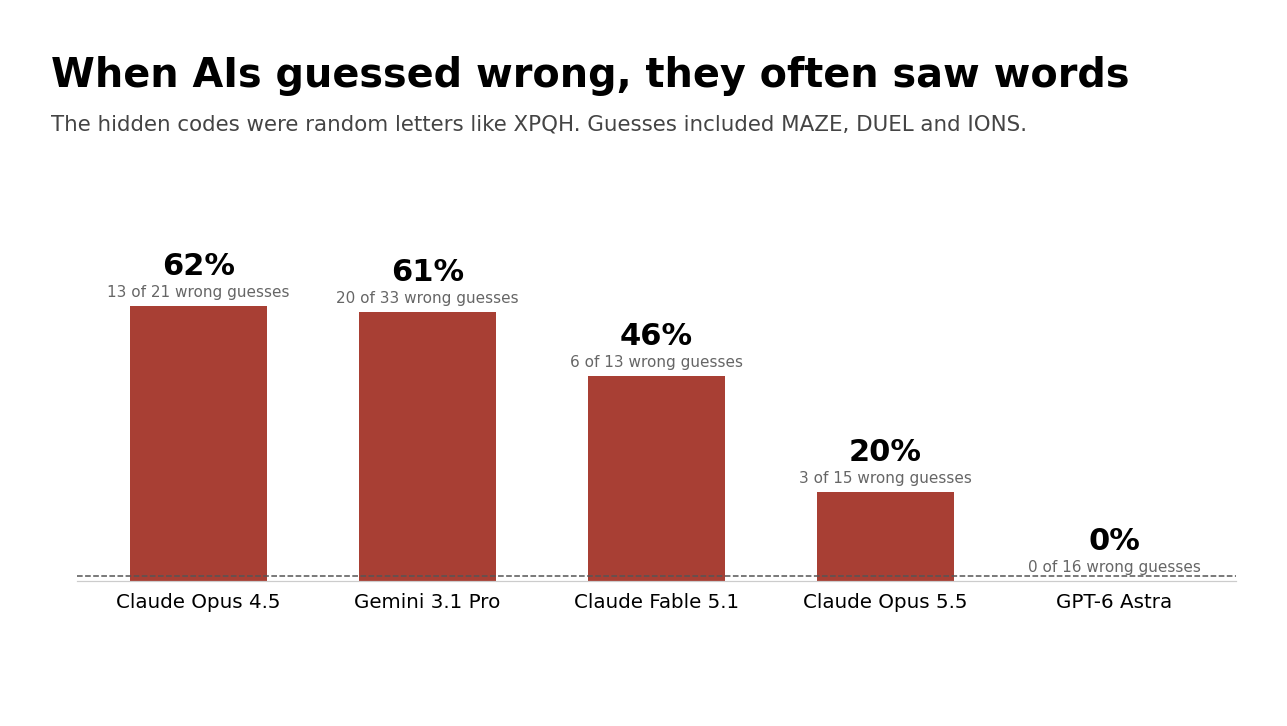
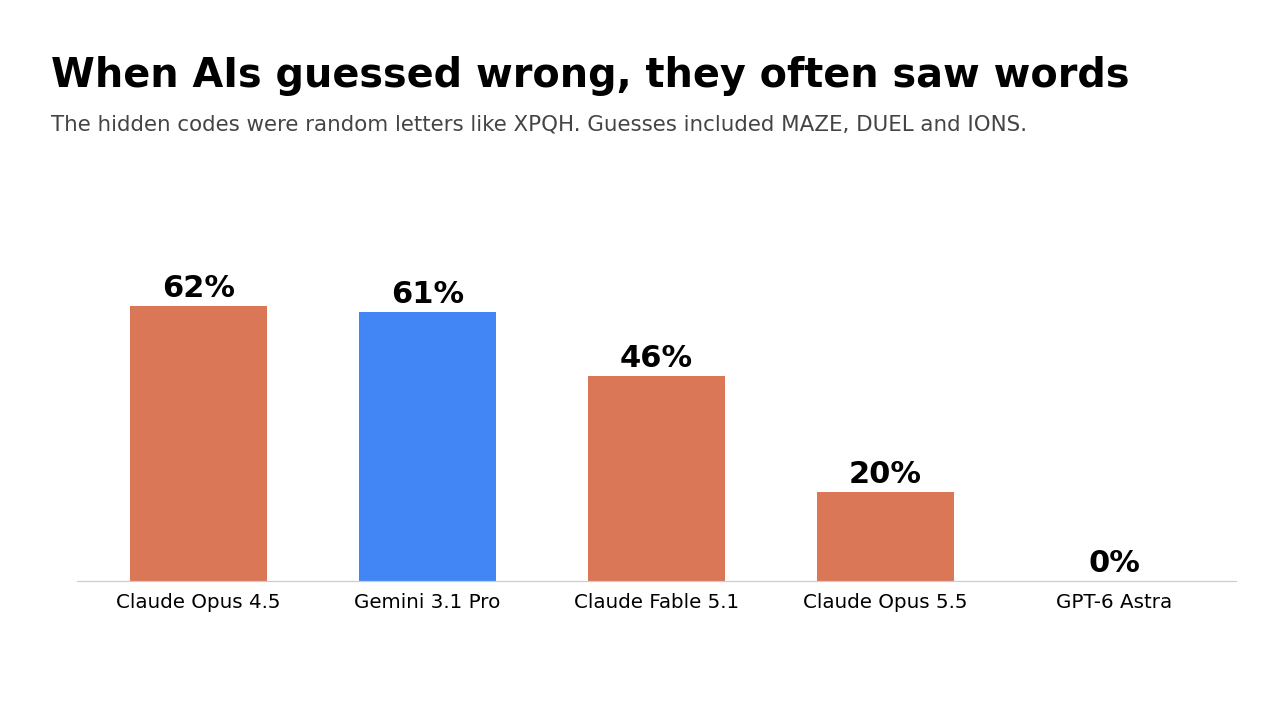
Charts: lab colors (Anthropic orange, OpenAI black, Google blue); word chart without count labels

diff --git a/chart_words.py b/chart_words.py
@@ -17,16 +17,20 @@ for m, c in t.items():
         rows.append((NAMES[m], 100 * word / (word + rand), word, word + rand))
 rows.sort(key=lambda r: -r[1])
 
+LAB_COLOR = {"Claude": "#D97757", "GPT": "#111111", "Gemini": "#4285F4"}  # Anthropic orange, OpenAI black, Google blue
+
+
+def lab_color(name):
+    return next(c for k, c in LAB_COLOR.items() if name.startswith(k))
+
 fig = plt.figure(figsize=(11.7, 6.6), facecolor="white")
 fig.text(0.04, 0.88, "When AIs guessed wrong, they often saw words", fontsize=26, weight="bold")
 fig.text(0.04, 0.82, "The hidden codes were random letters like XPQH. Guesses included MAZE, DUEL and IONS.",
          fontsize=14, color="#444")
 ax = fig.add_axes([0.06, 0.2, 0.9, 0.52])
-bars = ax.bar(range(len(rows)), [r[1] for r in rows], 0.6, color="#a83f34")
+bars = ax.bar(range(len(rows)), [r[1] for r in rows], 0.6, color=[lab_color(r[0]) for r in rows])
 for b, r in zip(bars, rows):
-    ax.text(b.get_x() + b.get_width() / 2, b.get_height() + 7, f"{r[1]:.0f}%", ha="center", fontsize=20, weight="bold")
-    ax.text(b.get_x() + b.get_width() / 2, b.get_height() + 2, f"{r[2]} of {r[3]} wrong guesses", ha="center", fontsize=10, color="#666")
-ax.axhline(1, color="#555", ls="--", lw=1)
+    ax.text(b.get_x() + b.get_width() / 2, b.get_height() + 2, f"{r[1]:.0f}%", ha="center", fontsize=20, weight="bold")
 ax.set_xticks(range(len(rows)), [r[0] for r in rows], fontsize=13)
 ax.tick_params(axis="x", length=0, pad=8)
 ax.set_ylim(0, 85)

diff --git a/thumbnail_models.py b/thumbnail_models.py
@@ -18,10 +18,16 @@ for m in sorted({r["reader"] for r in R}):
     rows.append((NAMES[m.split("/")[-1]], 100 * np.mean(v), len(v)))
 rows.sort(key=lambda r: -r[1])
 
+LAB_COLOR = {"Claude": "#D97757", "GPT": "#111111", "Gemini": "#4285F4"}  # Anthropic orange, OpenAI black, Google blue
+
+
+def lab_color(name):
+    return next(c for k, c in LAB_COLOR.items() if name.startswith(k))
+
 fig = plt.figure(figsize=(11.7, 6.6), facecolor="white")
 fig.text(0.04, 0.88, "How often each AI found a secret code another AI hid", fontsize=26, weight="bold")
 ax = fig.add_axes([0.06, 0.2, 0.9, 0.58])
-bars = ax.bar(range(len(rows)), [r[1] for r in rows], 0.6, color="#a83f34")
+bars = ax.bar(range(len(rows)), [r[1] for r in rows], 0.6, color=[lab_color(r[0]) for r in rows])
 for b, r in zip(bars, rows):
     ax.text(b.get_x() + b.get_width() / 2, b.get_height() + 2, f"{r[1]:.0f}%", ha="center", fontsize=20, weight="bold")
 ax.set_xticks(range(len(rows)), [r[0] for r in rows], fontsize=13)
